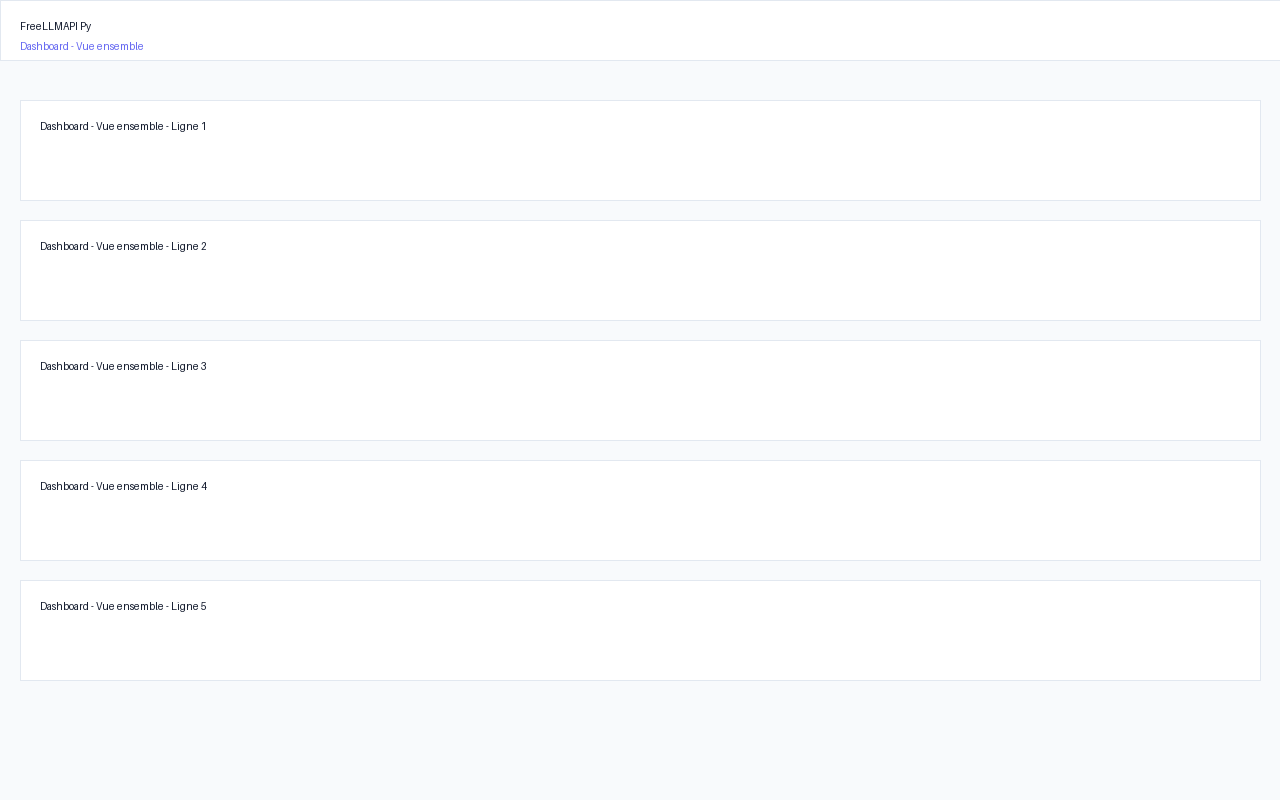
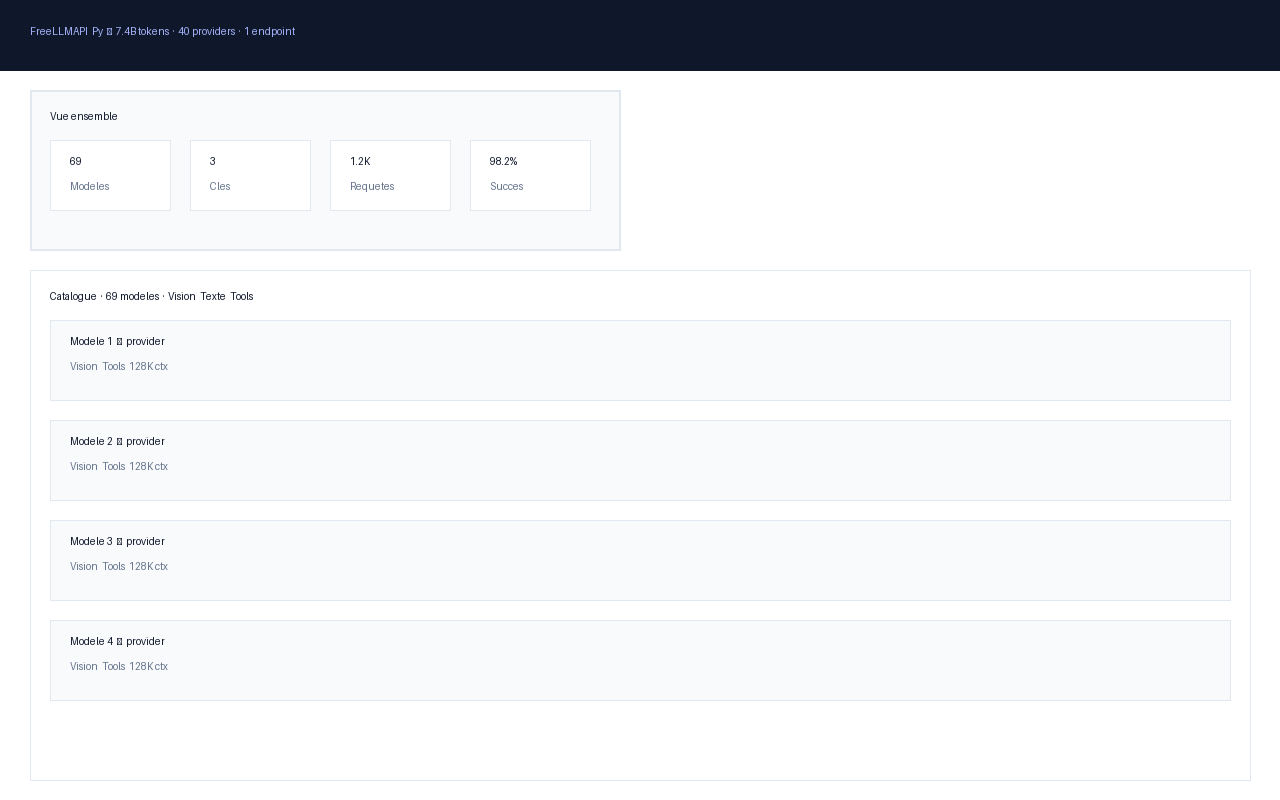
docs: 2 captures soignees (dashboard + providers) - attire sans faire fuir

diff --git a/README.md b/README.md
@@ -107,27 +107,15 @@ Individual AI providers offer generous free tiers (Groq, Cerebras, Google Gemini
 
 ---
 
-## 📸 Screenshots — Python Dashboard
+## 📸 Aperçu
 
 <p align="center">
-  <img src="screenshots/dashboard.png" width="800" alt="Dashboard"><br>
-  <em>Dashboard — Vue d'ensemble avec stats live et routing</em>
+  <img src="screenshots/dashboard.png" width="850" alt="Dashboard - Vue d'ensemble"><br>
+  <em>Dashboard — Vue d'ensemble : stats live, routing intelligent, catalogue 69 modèles</em>
 </p>
 <p align="center">
-  <img src="screenshots/models.png" width="800" alt="Models"><br>
-  <em>Modèles — 69 modèles, filtres Vision/Tools, 40 providers</em>
-</p>
-<p align="center">
-  <img src="screenshots/keys.png" width="800" alt="Keys"><br>
-  <em>Clés — Fournisseurs avec lien direct Obtenir une clé gratuite</em>
-</p>
-<p align="center">
-  <img src="screenshots/agents.png" width="800" alt="Agents"><br>
-  <em>Agents — 15 outils de codage (Claude Code, Codex, Cline...) configurables en 1 clic</em>
-</p>
-<p align="center">
-  <img src="screenshots/analytics.png" width="800" alt="Analytics"><br>
-  <em>Analytique — 7 jours, tokens, latence, succès</em>
+  <img src="screenshots/providers.png" width="850" alt="Fournisseurs"><br>
+  <em>Fournisseurs — 40 providers gratuits, 1-clic Obtenir une clé + test instantané</em>
 </p>
 
 ---
